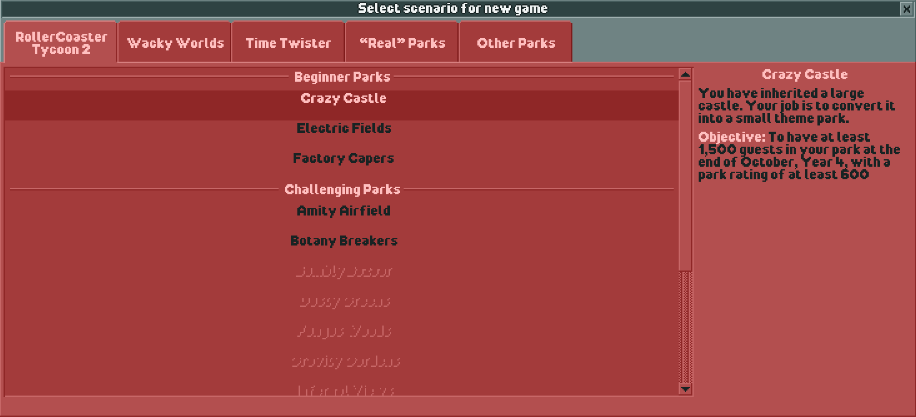
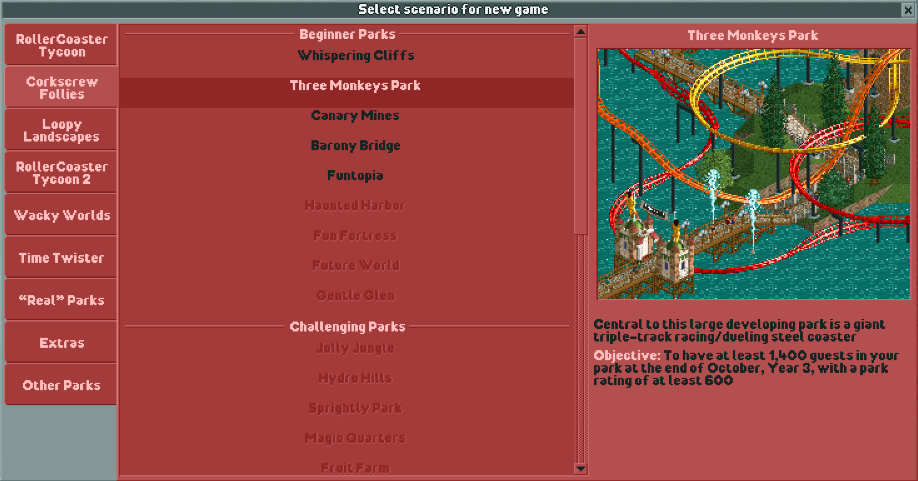
Update scenario selection image

diff --git a/playing/getting_started/index.rst b/playing/getting_started/index.rst
@@ -14,7 +14,7 @@ To start a new scenario, click on the “Start a new game” button.
 
 .. image:: _static/new_game_button.png
 
-This will bring up a menu with many different scenarios to choose from. By hovering over the names of the parks, you can see a brief description of the scenario along with its objective.
+This will bring up a menu with many different scenarios to choose from. By hovering over the names of the parks, you can see a brief description of the scenario along with its objective, and an image preview.
 
 .. image:: _static/scenario_selection.png
 
